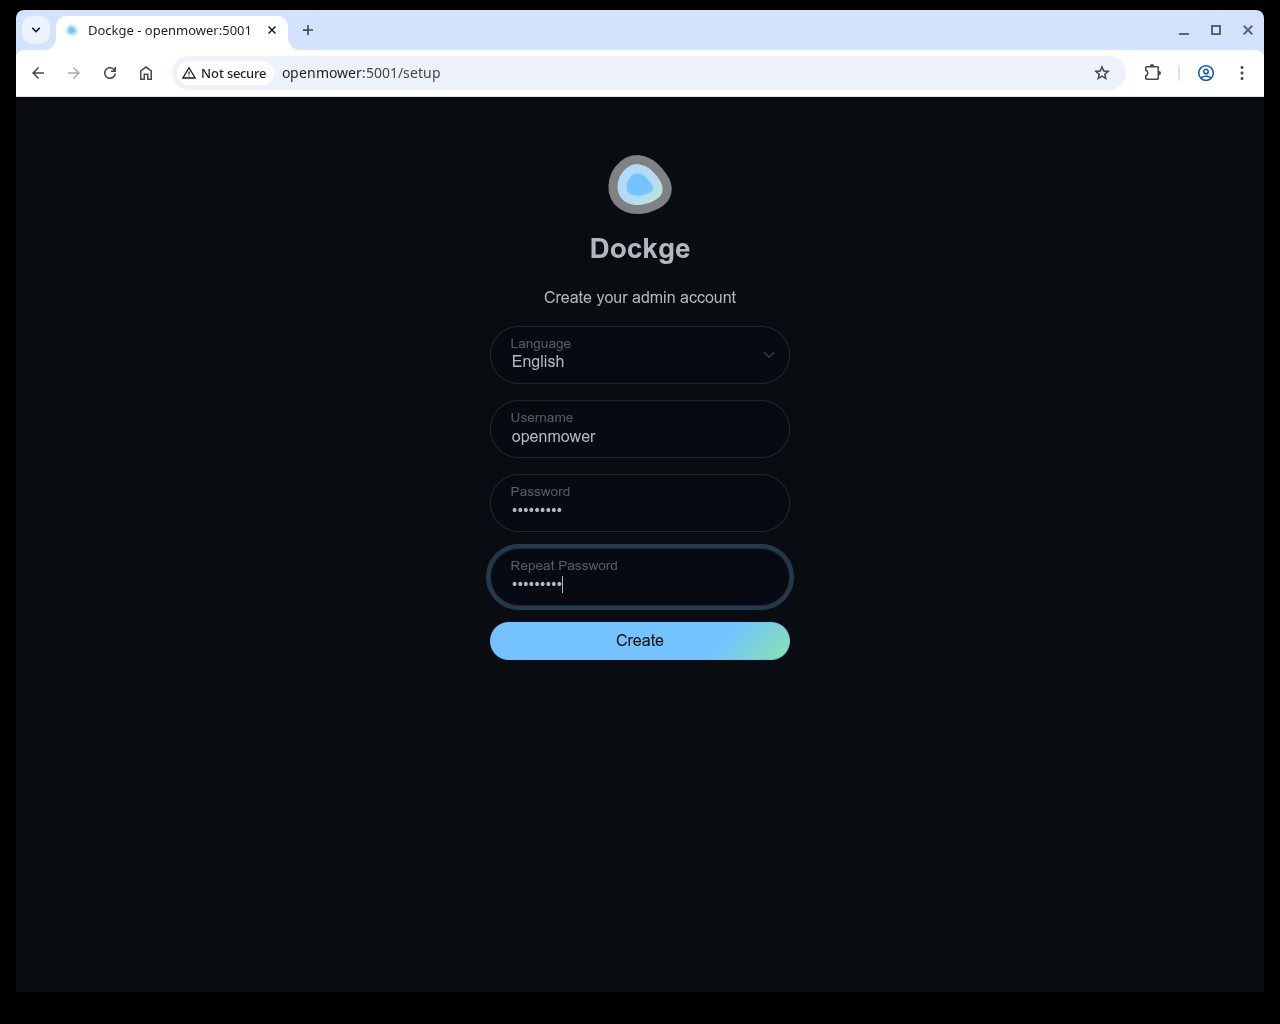
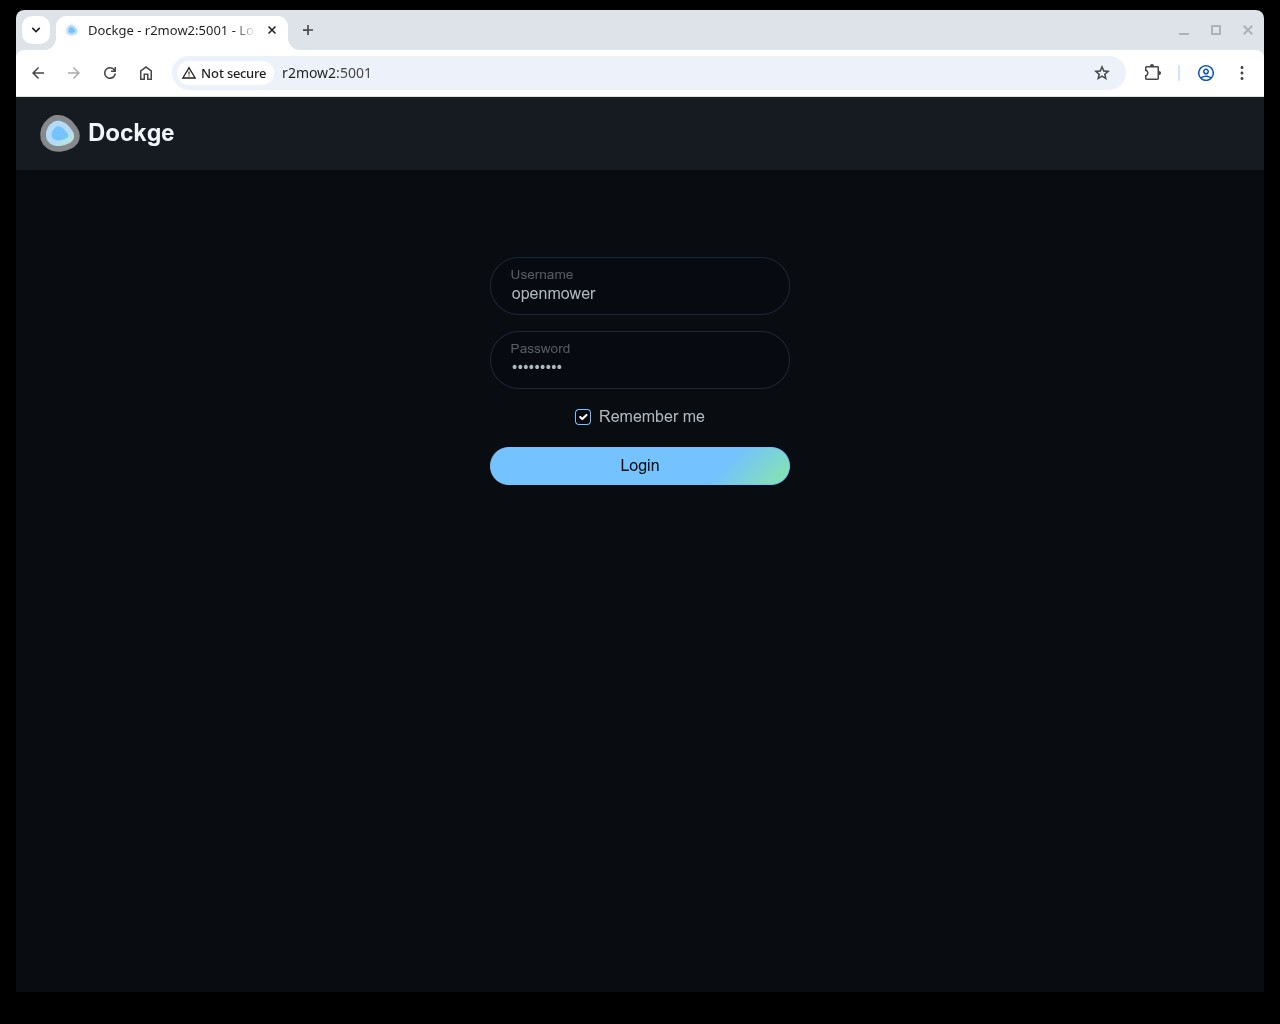
Adapt README

diff --git a/README.md b/README.md
@@ -2,22 +2,21 @@
 
 [![OpenMower header](.github/img/open_mower_header.jpg)](https://github.com/ClemensElflein/OpenMower)
 
-This repository contains the official OpenMowerOS image for running the [OpenMower](https://github.com/ClemensElflein/OpenMower) project on your OM's Pi4/CM4.
+This repository contains the official OpenMowerOS (OMOSv2) image for running the [OpenMower](https://github.com/ClemensElflein/OpenMower) project on your OM's Pi4/CM4.
 
 ➡ What’s new in the latest release? See [WHATSNEW.md](./WHATSNEW.md).
 
 ## Reference/Default Information
 
-- **hostname**: openmower
+- **hostname** : openmower (default)
 
-- **username**: openmower
+- **username** : openmower (fixed)
 
 - **password**: openmower ***CHANGE IT! (use `passwd` for that)***
 
 - **ssh**: enabled
 
 - **hotspot SSID**: OpenMower-\<somenumber\> (no password)
-
 
 ***
 
@@ -49,7 +48,7 @@ Tip: Click a section title to expand/collapse.
 4. Your Pi will boot multiple times.<br>
    ***Sometimes, after the first boot, it may fail to reboot*** (red LED near the HDMI plug remains on, whereas the green one doesn't flicker anymore). If that happens, a power cycle will get it back on track.
 
-5. ***If you skipped step 2: Comitup hotspot***<br>
+5. ***Optional: Comitup hotspot (if you skipped step 2 "Raspberry Pi Imager configuration")***<br>
 If you didn't enter your Wifi settings when asked for the custom settings during Pi Imager (see step 2), or if you accidentally entered the wrong Wifi settings:
 
    1. After a short time, an "OpenMower-\<somenumber>" Wifi hotspot should appear. Connect to it.
@@ -67,44 +66,50 @@ If you didn't enter your Wifi settings when asked for the custom settings during
 7.  SSH into your mower via `ssh openmower@openmower` or `ssh openmower@<your hostname or mower's IP address>` (password 'openmower' or the one you entered during Raspberry Pi Imager).
 
 8. ***Optional:***<br>
-   1. If you didn't configure a custom password during step 2, change your password now via `passwd`.
+   1. If you didn't configure a custom password during step 2 (Raspberry Pi Imager configuration), change your password now via `passwd`.
    2. Use `raspi-config` to change keyboard, timezone, WLAN country and the like (if not configured in Raspberry Pi Imager's custom settings).
-
 
  </details>
 
 <details>
 <summary><b>Manage OpenMower stack (GUI + CLI)</b></summary>
-<br>
-'Dockge' (a container manager GUI) gets automatically pulled and started after a couple of minutes (after final boot).<br>
-For each relevant GUI action, a CLI alternative is available via a powerful `openmower` command; both are listed below.<br><br>
+ 
+Dockge (a container manager GUI), as well as a ttyd (a WebTerminal) are automatically pulled and started after 2-5 minutes (after final boot).
 
-9. Connect to the container manager:
-   - GUI: Open <http://openmower:5001> (or your individual hostname if changed), and create a Dockge admin user with your preferred credentials:<br>
-   ![Create Admin Account](.github/img/dockge_01.jpg)
-   - CLI: SSH into your Pi: `ssh openmower@openmower` (or your configured hostname).
+The WebTerminal is available as a lightweight alternative to SSH for running the same commands.
+It can be reached via `http://openmower:7681` (adjust if you changed the hostname).
+Default login credentials: openmower/openmower.
 
-10. Configure the stack (.env)
-    - GUI: 
-      ![](.github/img/dockge_02_select_and_edit.jpg)
-      ![](.github/img/dockge_03_edit.jpg)
-      ![](.github/img/dockge_04_save.jpg)
-    - CLI: `openmower configure`
+For each relevant GUI action, a CLI alternative is available via a powerful `openmower` command; both are listed below.
 
-11. Start the stack (inclusive initial pull)
-    - GUI: 
-      ![](.github/img/dockge_05_start.jpg)
-    - CLI:
-      ```
-      openmower pull
-      openmower start
-      ```
+1. Connect to the container manager:
+   - GUI: Open <http://openmower:5001> (or your individual hostname if changed), and login by entering the default Dockge admin user `openmower/openmower`:
+       ![Create Admin Account](.github/img/dockge_01.jpg)
+   - CLI:
+     - SSH into your Pi: `ssh openmower@openmower` (or your configured hostname).
+     - WebTerminal via URL `http://openmower:7681` (or your configured hostname).
 
-12. Check status and open the OpenMower webApp
+2. Configure the stack (.env)
+   - GUI:
+       ![Select and Edit Stack](.github/img/dockge_02_select_and_edit.jpg)
+       ![Edit .env](.github/img/dockge_03_edit.jpg)
+       ![Save .env](.github/img/dockge_04_save.jpg)
+   - CLI: `openmower configure`
+
+3. Start the stack (inclusive initial pull)
     - GUI:
-      ![](.github/img/dockge_06_active.jpg)
-      - CLI: `openmower status` should list three services (open_mower_ros, Mosquitto, OpenMowerApp), all with status 'up'.<br>
-         If so, open a browser and visit http://openmower:8080 (or your configured hostname).
+       ![Start Stack](.github/img/dockge_05_start.jpg)
+    - CLI:
+
+       ```bash
+       openmower pull
+       openmower start
+       ```
+
+4. Check status and open the OpenMower webApp
+   - GUI:
+       ![Stack Active](.github/img/dockge_06_active.jpg)
+   - CLI: `openmower status` should list three services (open_mower_ros, Mosquitto, OpenMowerApp), all with status 'up'. If so, open a browser and visit `http://openmower:8080` (or your configured hostname).
 
 </details>
 
